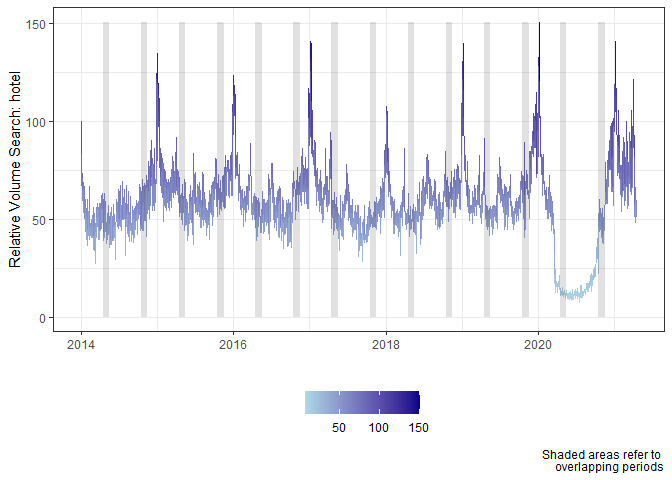
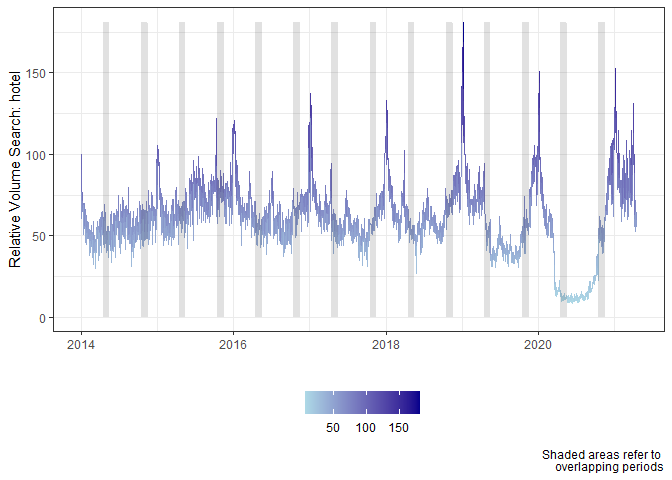
Second package submission

diff --git a/README.md b/README.md
@@ -75,25 +75,28 @@ library(ninTrenDo)
 ## basic example code
 res <- long_gt_ltc(keyword = "hotel",geo="CO",
                  input.sdate = as.Date("2014-01-01"),
-                 input.edate = as.Date("2021-04-16"),
+                 input.edate = as.Date("2021-05-01"),
                  input.frequency = "d",td.method="chow-lin",
-                 input.delta = 6,
+                 input.delta = 5,
                  input.ol.win = 1)
-#> [1] "GT sample = 1/15"
-#> [1] "GT sample = 2/15"
-#> [1] "GT sample = 3/15"
-#> [1] "GT sample = 4/15"
-#> [1] "GT sample = 5/15"
-#> [1] "GT sample = 6/15"
-#> [1] "GT sample = 7/15"
-#> [1] "GT sample = 8/15"
-#> [1] "GT sample = 9/15"
-#> [1] "GT sample = 10/15"
-#> [1] "GT sample = 11/15"
-#> [1] "GT sample = 12/15"
-#> [1] "GT sample = 13/15"
-#> [1] "GT sample = 14/15"
-#> [1] "GT sample = 15/15"
+#> [1] "GT sample = 1/18"
+#> [1] "GT sample = 2/18"
+#> [1] "GT sample = 3/18"
+#> [1] "GT sample = 4/18"
+#> [1] "GT sample = 5/18"
+#> [1] "GT sample = 6/18"
+#> [1] "GT sample = 7/18"
+#> [1] "GT sample = 8/18"
+#> [1] "GT sample = 9/18"
+#> [1] "GT sample = 10/18"
+#> [1] "GT sample = 11/18"
+#> [1] "GT sample = 12/18"
+#> [1] "GT sample = 13/18"
+#> [1] "GT sample = 14/18"
+#> [1] "GT sample = 15/18"
+#> [1] "GT sample = 16/18"
+#> [1] "GT sample = 17/18"
+#> [1] "GT sample = 18/18"
 #> [1] "Correction with monthly trend in process - Method: chow-lin"
 #> Loading required namespace: tsbox
 
